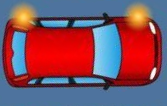
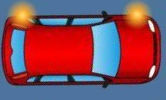
Car Size FIX

diff --git a/python/visu.py b/python/visu.py
@@ -19,10 +19,10 @@ blue_car_left = cv2.imread(os.path.dirname(os.path.abspath(__file__)) + "/res/ca
 blue_car_right = cv2.imread(os.path.dirname(os.path.abspath(__file__)) + "/res/car2right.png")
 # for calculations
 map_length = im_map.shape[1]
-center_fast_lane = 176
-center_slow_lane = 298
+center_fast_lane = 180
+center_slow_lane = 300
 center_merge_lane = 420
-max_car_size_pixel = center_slow_lane - center_fast_lane
+max_car_size_pixel = int(0.86 * (center_slow_lane - center_fast_lane))
 # for navigation
 current_offset = 0
 current_region_width = map_length
@@ -68,8 +68,8 @@ class CarImage:
             self.right = blue_car_right
         # Scale to correct size
         orig_h, orig_w = self.straight.shape[:2]
-        new_w = np.round(max_car_size_pixel * self.car.specs.size / CONNECTION_CONFIG["max_car_size"]).astype(np.int32)
-        new_h = np.round(orig_h * new_w / orig_w).astype(np.int32)
+        new_h = np.round(max_car_size_pixel * self.car.specs.size / CONNECTION_CONFIG["max_car_size"]).astype(np.int32)
+        new_w = np.round(orig_w * new_h / orig_h).astype(np.int32)
         self.straight = cv2.resize(self.straight, (new_w, new_h))
         self.left = cv2.resize(self.left, (new_w, new_h))
         self.right = cv2.resize(self.right, (new_w, new_h))
